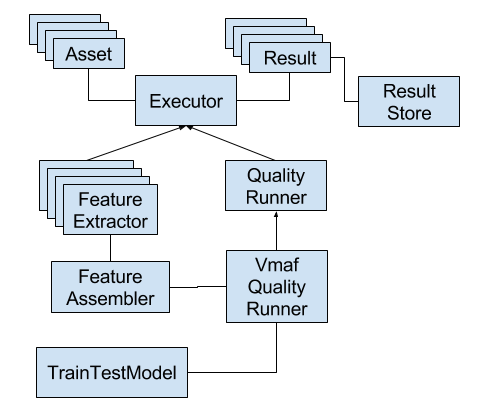
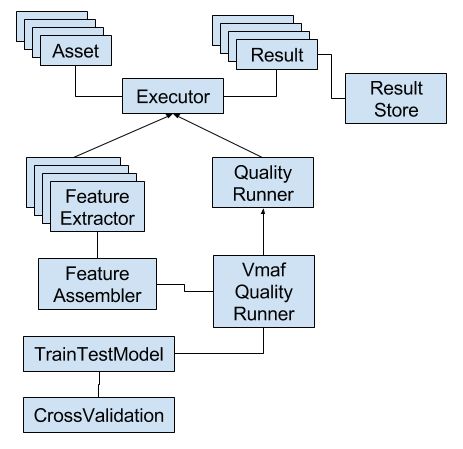
Update CONTRIBUTING; misc.

Changed region(s): [[0.0302, 0.0, 0.9676, 0.9618], [0.5443, 0.8687, 0.5745, 0.8998]]

diff --git a/python/test/train_on_dataset_test.py b/python/test/train_on_dataset_test.py
@@ -11,17 +11,22 @@ from tools.misc import import_python_file
 class TestTrainOnDataset(unittest.TestCase):
 
     def setUp(self):
-        self.train_dataset = import_python_file(config.ROOT + '/python/test/resource/dataset_sample.py')
-        self.output_model_filepath = config.ROOT + "/workspace/model/test_output_model.pkl"
+        self.train_dataset = import_python_file(
+            config.ROOT + '/python/test/resource/dataset_sample.py')
+        self.output_model_filepath = \
+            config.ROOT + "/workspace/model/test_output_model.pkl"
 
     def tearDown(self):
         if hasattr(self, 'train_fassembler'):
             self.train_fassembler.remove_logs()
-        if os.path.exists(self.output_model_filepath): os.remove(self.output_model_filepath)
+        if os.path.exists(self.output_model_filepath):
+            os.remove(self.output_model_filepath)
 
     def test_train_on_dataset_with_dis1st_thr(self):
-        feature_param = import_python_file(config.ROOT + '/python/test/resource/feature_param_sample.py')
-        model_param = import_python_file(config.ROOT + '/python/teset/resource/model_param_sample.py')
+        feature_param = import_python_file(
+            config.ROOT + '/python/test/resource/feature_param_sample.py')
+        model_param = import_python_file(
+            config.ROOT + '/python/teset/resource/model_param_sample.py')
         train_fassembler, train_ys_pred = \
             train_on_dataset(train_dataset=self.train_dataset,
                          feature_param=feature_param,

diff --git a/python/core/result.py b/python/core/result.py
@@ -10,7 +10,7 @@ from tools.stats import StatsList
 
 class BasicResult(object):
     """
-    Has some basic functions, but don't need executor_id. To be used by
+    Has some basic functions, but don't need asset or executor_id. To be used by
     FeatureAssemler, which is not an Executor.
     """
     def __init__(self, asset, result_dict):
@@ -51,13 +51,14 @@ class BasicResult(object):
         return StatsList.var(self._get_score_list_from_key(key))
 
     def percentile(self, key, q):
-        return StatsList.percentile(self._get_score_list_from_key(key),q)
+        return StatsList.percentile(self._get_score_list_from_key(key), q)
 
     def total_var(self, key):
         return StatsList.total_var(self._get_score_list_from_key(key))
 
     def moving_average(self, key, n, type='exponential'):
-        return StatsList.moving_average(self._get_score_list_from_key(key),n,type)
+        return StatsList.moving_average(
+            self._get_score_list_from_key(key), n, type)
 
     def _try_get_aggregate_score(self, key, error):
         """
@@ -141,9 +142,8 @@ class Result(BasicResult):
                         )
 
     def __init__(self, asset, executor_id, result_dict):
-        self.asset = asset
+        super(Result, self).__init__(asset, result_dict)
         self.executor_id = executor_id
-        self.result_dict = result_dict
 
     def __eq__(self, other):
         if self.asset != other.asset:

diff --git a/python/core/asset.py b/python/core/asset.py
@@ -11,11 +11,16 @@ import config
 
 class Asset(WorkdirEnabled):
     """
-    Asset provide info about a distored video and its reference video, as well
-    as information on how its quality should be measured (e.g. start/end
-    frames, upscale to what resolution to its quality). It is used as an input
-    to an executor (e.g. a QualityRunner, or a FeatureExtractor). Asset is has
-    a unique working directory to enable thread safety.
+    An Asset is the most basic unit with sufficient information to perform an
+    execution task. It includes basic information about a distorted video and
+    its undistorted reference video, as well as the frame range on which to
+    extract features/calculate quality results (*dis_start_end_frame* and
+    *ref_start_end_frame*), and at what resolution to perform such feature
+    extraction (each video frame is upscaled to the resolution specified by
+    *quality_width_hight* before processing).
+
+    Asset extends WorkdirEnabled mixin, which comes with a thread-safe working
+    directory to facilitate parallel execution.
     """
 
     # ==== constructor ====

diff --git a/python/core/executor.py b/python/core/executor.py
@@ -13,10 +13,14 @@ import config
 
 class Executor(TypeVersionEnabled):
     """
-    An Executor takes in a list of Assets, and run calculation on them, and
+    An Executor takes in a list of Assets, and run computations on them, and
     return a list of corresponding Results. An Executor must specify a unique
     type and version combination (by the TYPE and VERSION attribute), so that
-    a Result generated by it can be identified.
+    the Result generated by it can be uniquely identified.
+
+    Executor is the base class for FeatureExtractor and QualityRunner, and it
+    provides a number of shared housekeeping functions, including reusing
+    Results, creating FIFO pipes, cleaning up log files/Results, etc.
     """
 
     def __init__(self,

diff --git a/python/core/result_store.py b/python/core/result_store.py
@@ -25,8 +25,8 @@ class SqliteResultStore(ResultStore):
 class FileSystemResultStore(ResultStore):
     """
     persist result by a simple file system that save/load result in a directory.
-    The directory has multiple subdirectories, each corresponding to a result
-    generator (e.g. a VMAF feature extractor, or a NO19 feature extractor, or a
+    The directory has multiple subdirectories, each corresponding to an Executor
+    (e.g. a VMAF feature extractor, or a NO19 feature extractor, or a
     VMAF quality runner, or a SSIM quality runner). Each subdirectory contains
     multiple files, each file stores dataframe for an asset, and has file name
     str(asset).

diff --git a/CONTRIBUTING.md b/CONTRIBUTING.md
@@ -26,13 +26,13 @@ By contributing your code, you agree to license your contribution under the term
 
 ##Repository Structure
 
-Files in the repository follows the structure below:
+Files in the repository follow the structure below:
 
 ```
 ├── feature: C/C++ source code for extraction of features
 ├── libsvm: libsvm C/C++ source code
 ├── python
-│   ├── config.py: configuration info such as paths, global parameters, etc. 
+│   ├── config.py: configuration information such as global paths, parameters, etc. 
 │   ├── core: core classes and functions
 │   ├── script: scripts for executing specific tasks
 │   ├── test: unit/functional test cases
@@ -40,7 +40,7 @@ Files in the repository follows the structure below:
 ├── resource
 │   ├── dataset: dataset files
 │   ├── feature_param: feature parameter files
-│   ├── images
+│   ├── images: image files
 │   ├── model: permanent trained model files
 │   ├── model_param: model parameter files
 │   └── yuv: sample YUV video files
@@ -54,41 +54,57 @@ Files in the repository follows the structure below:
  
 ##Core Classes
 
-The relationship among the core classes can be represented in the diagram below:
+The core class architecture can be depicted in the diagram below:
 
 ![UML](/resource/images/uml.png)
 
-####Asset
+###Asset
 
-An Asset provide info about a distored video and its reference video, as well as information on how its quality should be measured (e.g. start/end frames, upscale to what resolution to its quality). It is used as an input to an executor (e.g. a QualityRunner, or a FeatureExtractor). Asset is has a unique working directory to enable thread safety.
+An Asset is the most basic unit with enough information to perform an execution task. It includes basic information about a distorted video and its undistorted reference video, as well as the frame range on which to perform a task (i.e. *dis_start_end_frame* and *ref_start_end_frame*), and at what resolution to perform a task (e.g. a video frame is upscaled to the resolution specified by *quality_width_hight* before feature extraction).
 
-####Executor
+Asset extends WorkdirEnabled mixin, which comes with a thread-safe working directory to facilitate parallel execution.
 
-An Executor takes in a list of Assets, and run calculation on them, and return a list of corresponding results. An Executor must specify a unique type and version combination (by the TYPE and VERSION attribute), so that the Result generated by it can be identified.
+###Executor
 
-####Result
+An Executor takes in a list of Assets, and run computations on them, and return a list of corresponding Results. An Executor extends the TypeVersionEnabled mixin, and must specify a unique type and version combination (by the *TYPE* and *VERSION* attribute), so that the Result generated by it can be uniquely identified.
 
-Dictionary-like key-value store of read-only result generated on an Asset by a Executor.
+Executor is the base class for FeatureExtractor and QualityRunner, and it provides a number of shared housekeeping functions, including storing and reusing Results, creating FIFO pipes, cleaning up log files/Results, etc.
 
-####ResultStore
+A function *run_executors_in_parallel* facilitates running Executors in parallel.
 
-Provide capability to save and load a Result.
+###Result
 
-####FeatureExtractor
+A Result is a key-value store of read-only execution results generated by an Executor on an Asset.
 
-FeatureExtractor takes in a list of assets, and run feature extraction on them, and return a list of corresponding results. A FeatureExtractor must specify a unique type and version combination (by the TYPE and VERSION attribute), so that the Result generated by it can be identified.
+###ResultStore
 
-####FeatureAssembler
+ResultStore provides capability to save and load a Result. Current implementation FileSystemResultStore persists results by a simple file system that save/load result in a directory. The directory has multiple subdirectories, each corresponding to an Executor. Each subdirectory contains multiple files, each file storing dataframe for an Asset.
 
-Assembles features for a input list of Assets on a input list of FeatureExtractors. For each asset, it outputs a BasicResult object.
+###FeatureExtractor
 
-####TrainTestModel
+FeatureExtractor subclasses Executor, and is specifically for extracting features from Assets. Any concrete feature extraction implementation should extend the FeatureExtractor base class (e.g. VmafFeatureExtractor). The *TYPE* field corresponds to the 'aggregate' feature name, and the 'ATOM_FEATURES' field corresponds to the 'atom' feature names.
 
-To add.
+###FeatureAssembler
 
-####QualityRunner
+FeatureAssembler assembles features for an input list of Assets on a input list of FeatureExtractor subclasses. The constructor argument *feature_dict* specifies the list of FeatureExtractor subclasses (i.e. the 'aggregate' feature) and the selected 'atom' features. For each asset on a FeatureExtractor, it outputs a BasicResult object. FeatureAssembler is used by a QualityRunner to assemble the vector of features to be used by a TrainTestModel.
 
-QualityRunner takes in a list of assets, and run quality assessment on them, and return a list of corresponding results. A QualityRunner must specify a unique type and version combination (by the TYPE and VERSION attribute), so that the Result generated by it can be identified.
+###TrainTestModel
+
+TrainTestModel is the base class for any concrete implementation of regressor, which must provide a *train()* method to perform training on a set of data and their groud-truth labels, and a *predict()* method to predict the labels on a set of data, and a *to_file()* and a *from_file()* method to save and load trained models. 
+
+A TrainTestModel constructor must supply a dictionary of parameters (i.e. *param_dict*) that contains the regressor's hyper-parameters. The base class also provides shared functionalities such as input data normalization/output data denormalization, evaluating prediction performance, etc.
+
+Like a Executor, a TrainTestModel must specify a unique type and version combination (by the *TYPE* and *VERSION attribute*).
+
+###CrossValidation
+
+CrossValidation provides a collection of static methods to facilitate verification of a TrainTestModel object. As such, it also provides means to search the optimal hyper-parameter for a TrainTestModel object.
+
+###QualityRunner
+
+QualityRunner subclasses Executor, and is specifically for evaluating the quality score for Assets. Any concrete implementation to generate the final quality score should extend the QualityRunner base class (e.g. VmafQualityRunner).
+
+There are two ways to extend a QualityRunner base class -- either by directly implementing the quality calculation (e.g. by calling a C executable), or by calling a FeatureAssembler (with indirectly calls a FeatureExtractor) and a TrainTestModel subclass. For more details, refer to Section 'Extending Class'.
 
 ##Extending Classes
 

diff --git a/README.md b/README.md
@@ -21,7 +21,7 @@ Follow [this link](http://www.scipy.org/install.html) to install the *numpy/scip
 sudo pip install scikit-learn==0.17.1
 ```
 
-####Troubleshooting
+###Troubleshooting
 
 You can verify if a package is properly installed and its version/location by:
 
